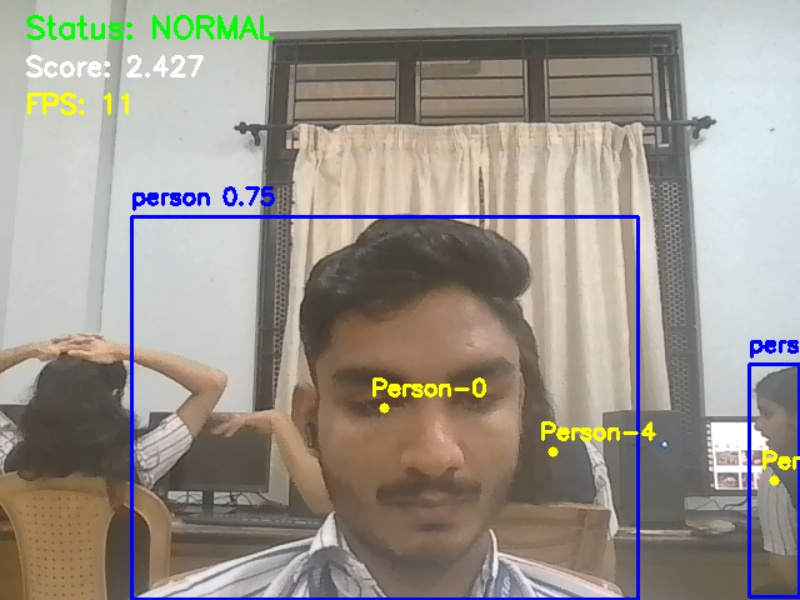
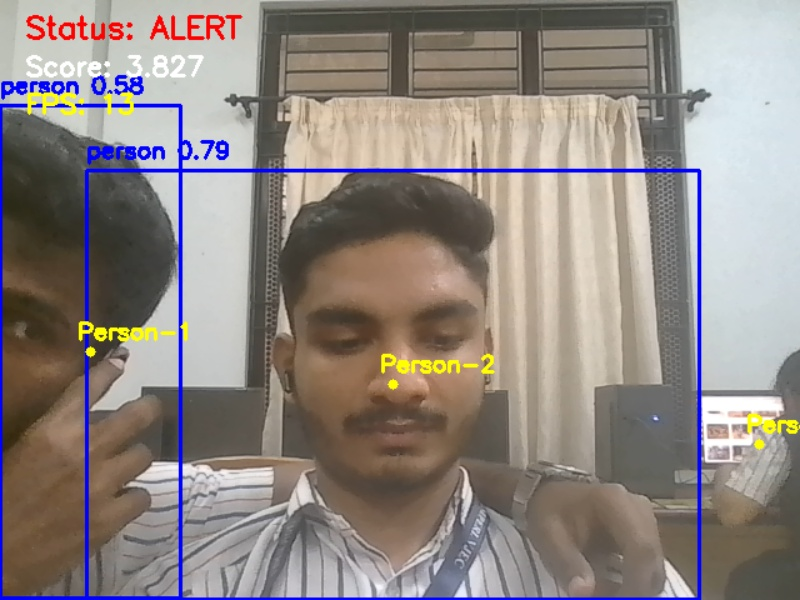
Day 6: Added Telegram realtime alerts and JSON analytics logging

diff --git a/violence_detection_with_yolo.py b/violence_detection_with_yolo.py
@@ -5,6 +5,19 @@ import os
 import numpy as np
 from ultralytics import YOLO
 from tracker import CentroidTracker
+from telegram_alert import send_telegram_alert
+import json
+
+def log_event(event_type, data):
+    os.makedirs("alerts", exist_ok=True)
+    entry = {
+        "time": time.strftime("%Y-%m-%d %H:%M:%S"),
+        "event": event_type,
+        "data": data
+    }
+    with open("alerts/events.jsonl", "a") as f:
+        f.write(json.dumps(entry) + "\n")
+
 
 # -----------------------------
 # ARGUMENTS
@@ -60,6 +73,8 @@ os.makedirs("stream", exist_ok=True)
 prev_time = time.time()
 
 print("Starting main loop. Press 'q' to exit.")
+log_event("SYSTEM_START", {"source": str(SOURCE)})
+
 
 # -----------------------------
 # MAIN LOOP
@@ -128,6 +143,12 @@ while cap.isOpened():
             recording = True
             alert_frames = []
             print(f"ALERT: triggered (motion={motion_score:.3f})")
+            send_telegram_alert(f"🚨 ALERT DETECTED!\nMotion Score: {motion_score:.3f}")
+            log_event("ALERT_TRIGGERED", {
+                "motion_score": round(motion_score, 3)
+            })
+
+
 
     if recording:
         alert_frames.append(display.copy())
@@ -141,6 +162,10 @@ while cap.isOpened():
             out.release()
 
             print(f"Saved alert clip: {out_path}")
+            log_event("ALERT_CLIP_SAVED", {
+                "file": out_path
+            })
+
             alerts_saved += 1
             recording = False
             alert_counter = 0

diff --git a/telegram_alert.py b/telegram_alert.py
@@ -1,0 +1,15 @@
+import requests
+
+BOT_TOKEN = "8393591405:AAGs6mj4KDaxefBVxv7d6qKegy86WEWAOgk"
+CHAT_ID = "1548646865"
+
+def send_telegram_alert(message):
+    url = f"https://api.telegram.org/bot{BOT_TOKEN}/sendMessage"
+    data = {
+        "chat_id": CHAT_ID,
+        "text": message
+    }
+    try:
+        requests.post(url, data=data, timeout=5)
+    except:
+        pass
